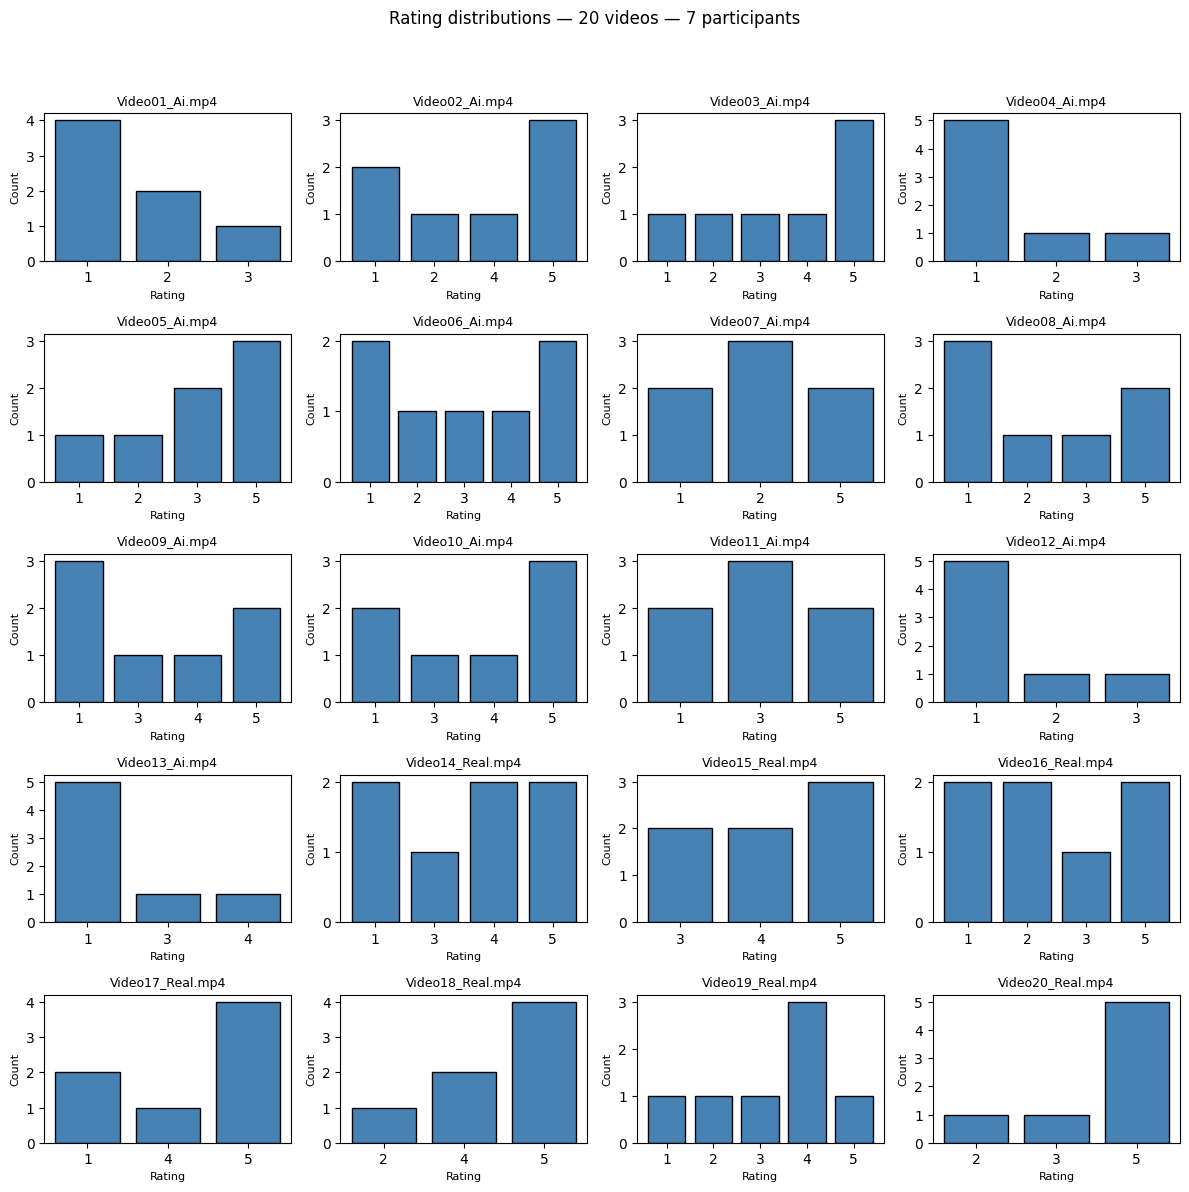
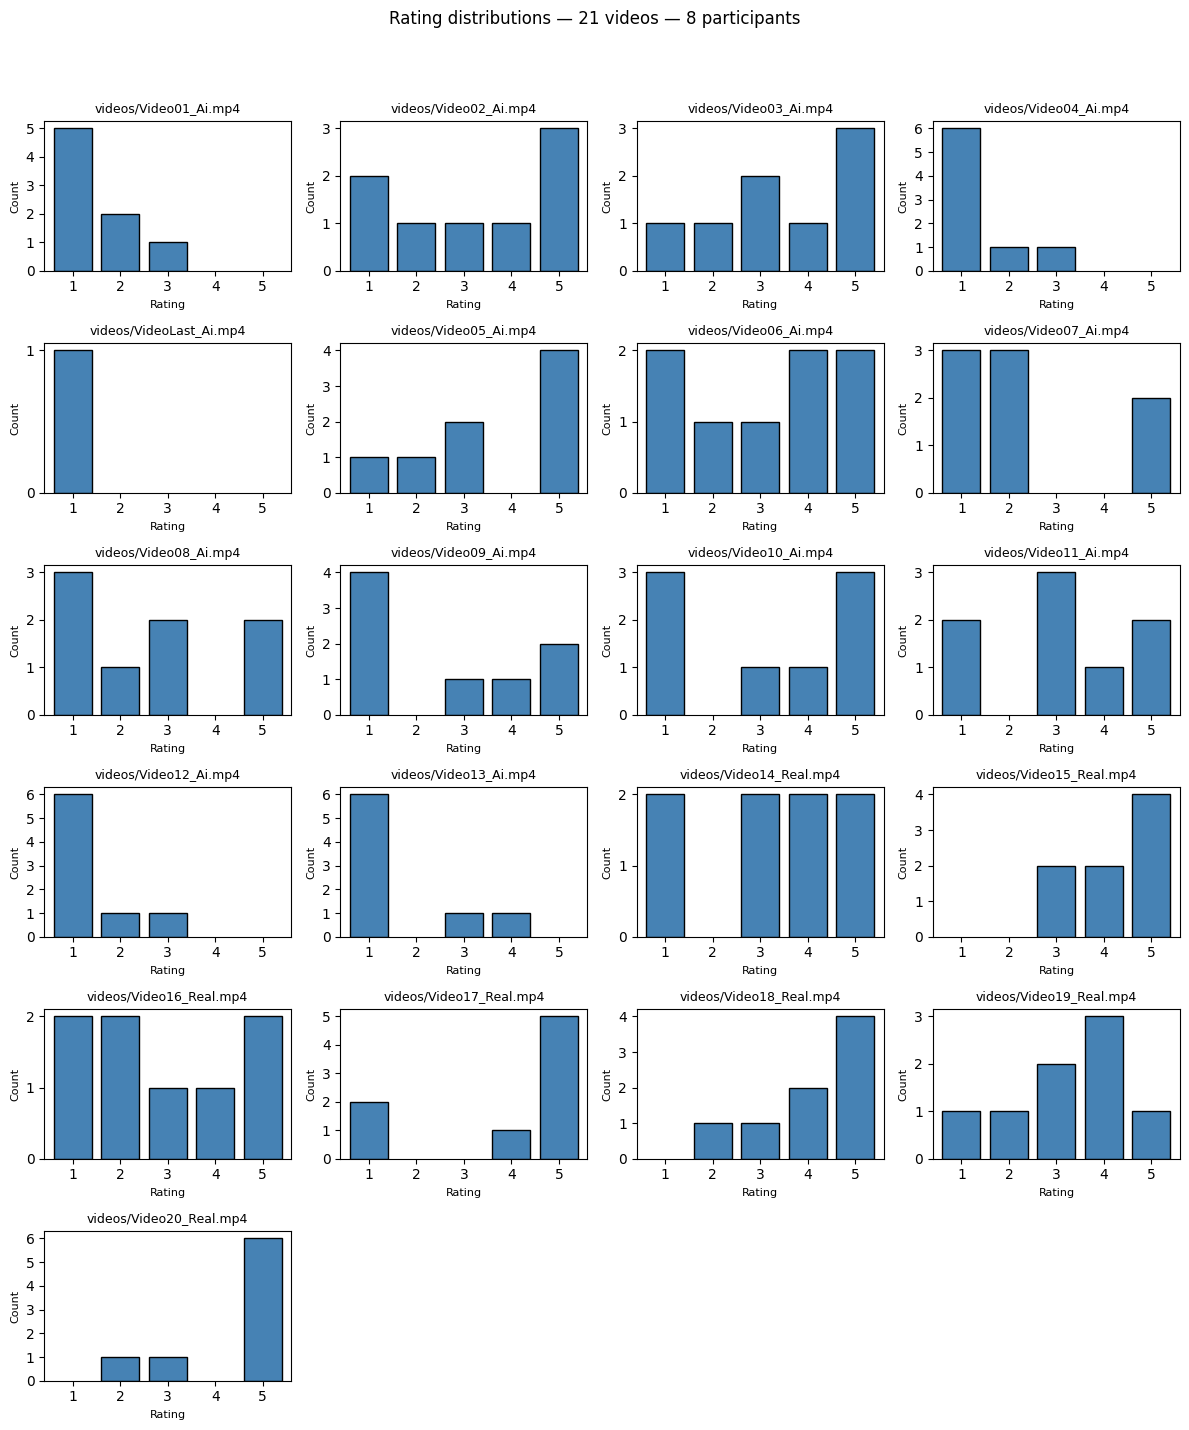
plot update

diff --git a/script.py b/script.py
@@ -201,10 +201,12 @@ def main():
 		if counts.empty:
 			ax.text(0.5, 0.5, 'No numeric ratings', ha='center', va='center')
 		else:
-			ax.bar(counts.index.astype(str), counts.values, color='steelblue', edgecolor='black')
+			ax.bar(counts.index.astype(float), counts.values, color='steelblue', edgecolor='black')
 			ax.yaxis.set_major_locator(MaxNLocator(integer=True))
 			ax.set_xlabel('Rating', fontsize=8)
 			ax.set_ylabel('Count', fontsize=8)
+			ax.set_xticks(range(1, 6))
+			ax.set_xlim(0.4, 5.6)
 
 		note = f' ({non_numeric_counts[i]} non-numeric omitted)' if non_numeric_counts[i] > 0 else ''
 		ax.set_title(f'{vid}{note}', fontsize=9)
